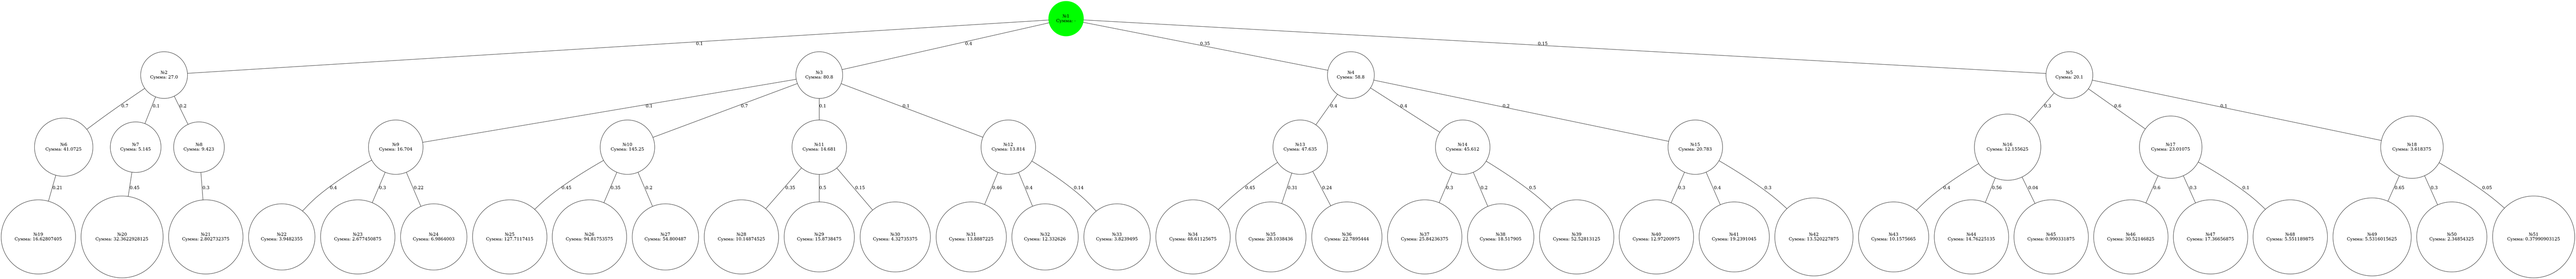
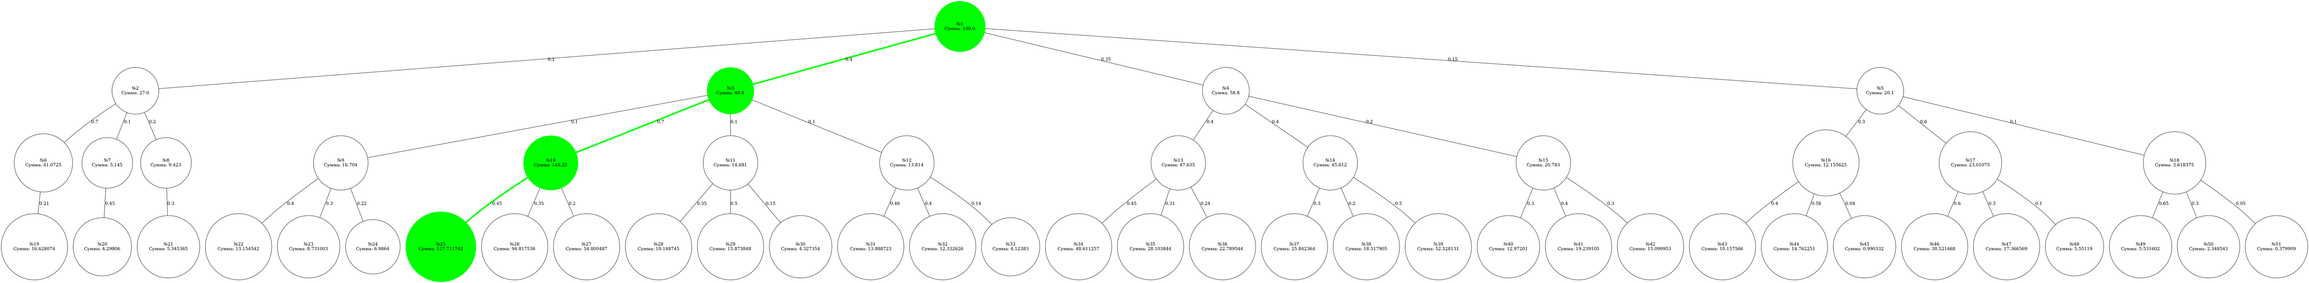
Finished a working version

diff --git a/scripts/graph_calculations.py b/scripts/graph_calculations.py
@@ -43,25 +43,37 @@ class Control:
         self.data[set.final_sum_row] = pd.Series()
         
         self.set_data_types()
+        self.generate_values()
+        
         self.connection_type = 'db'
             
     def get_data_csv(self):
         self.data = pd.read_excel(set.input_file)
+        
+        self.data[set.final_probability_row] = pd.Series()
+        self.data[set.discount_sum_row] = pd.Series()
+        self.data[set.final_discount_sum_row] = pd.Series()
+        self.data[set.final_sum_row] = pd.Series()
+        
         self.set_data_types()
+        self.generate_values()
+        
         self.connection_type = 'csv'
             
     def set_data_types(self):
-        self.data[set.id_row] = self.data[set.id_row].astype(int, errors='ignore').fillna('-')
-        self.data[set.id_parent_row] = self.data[set.id_parent_row].astype(int, errors='ignore').fillna('-')
-        self.data[set.year_row] = self.data[set.year_row].astype(int, errors='ignore').fillna('-')
-        self.data[set.earnings_row] = self.data[set.earnings_row].astype(float, errors='ignore').fillna('-')
-        self.data[set.probability_row] = self.data[set.probability_row].astype(float, errors='ignore').fillna('-')
-        self.data[set.final_probability_row] = self.data[set.final_probability_row].astype(float, errors='ignore').fillna('-')
-        self.data[set.discount_sum_row] = self.data[set.discount_sum_row].astype(float, errors='ignore').fillna('-')
+        self.data[set.id_row] =                 self.data[set.id_row].astype(int, errors='ignore').fillna('-')
+        self.data[set.id_parent_row] =          self.data[set.id_parent_row].astype(int, errors='ignore').fillna('-')
+        self.data[set.year_row] =               self.data[set.year_row].astype(int, errors='ignore').fillna('-')
+        self.data[set.earnings_row] =           self.data[set.earnings_row].astype(float, errors='ignore').fillna('-')
+        self.data[set.probability_row] =        self.data[set.probability_row].astype(float, errors='ignore').fillna('-')
+        self.data[set.final_probability_row] =  self.data[set.final_probability_row].astype(float, errors='ignore').fillna('-')
+        self.data[set.discount_sum_row] =       self.data[set.discount_sum_row].astype(float, errors='ignore').fillna('-')
         self.data[set.final_discount_sum_row] = self.data[set.final_discount_sum_row].astype(float, errors='ignore').fillna('-')
-        self.data[set.final_sum_row] = self.data[set.final_sum_row].astype(float, errors='ignore').fillna('-')
+        self.data[set.final_sum_row] =          self.data[set.final_sum_row].astype(float, errors='ignore').fillna('-')
         
     def generate_graphs(self) -> None:
+        self.get_optimal_path()
+        
         rows = self.data.iterrows()
         
         graph = pydot.Dot(graph_type="graph", rankdir="BT")
@@ -153,6 +165,8 @@ class Control:
         
         while not parent.isna().all():
             current_row = self.data[self.data[set.id_row] == parent.item()]
+            if current_row.empty:
+                break
             nodes_in_path.append(current_row[set.id_row].item())
             parent = current_row[set.id_parent_row]
             
@@ -170,4 +184,24 @@ class Control:
         img.save(f'{set.output_path}{set.cooler_graph_file_name}')
 
     def generate_values(self):
-        pass
+        for index, row in self.data.iterrows():
+            id_parent = row[set.id_parent_row]
+            final_probility = row[set.probability_row]
+            discount_sum = row[set.earnings_row]
+            final_discount_sum = 0
+            
+            while id_parent is not None:
+                parent_row = self.data[self.data[set.id_row] == id_parent]
+                if parent_row.empty:
+                    id_parent = None
+                else:
+                    id_parent = parent_row[set.id_parent_row].item()
+                    final_probility *= parent_row[set.probability_row].item()
+                    discount_sum *= 0.85
+                    final_discount_sum += parent_row[set.final_discount_sum_row].item()
+            final_discount_sum += discount_sum
+            
+            self.data.at[index, set.final_probability_row] = round(final_probility, 6)
+            self.data.at[index, set.discount_sum_row] = round(discount_sum, 6)
+            self.data.at[index, set.final_discount_sum_row] = round(final_discount_sum, 6)
+            self.data.at[index, set.final_sum_row] = round(final_discount_sum * final_probility, 6)

diff --git a/scripts/ui.py b/scripts/ui.py
@@ -325,6 +325,7 @@ class GraphTab(ft.Column):
             return
         
         self.graph_display.visible = True
+        self.graph_display.content = self.progress_ring
         self.update()
         
         control.generate_graphs()
